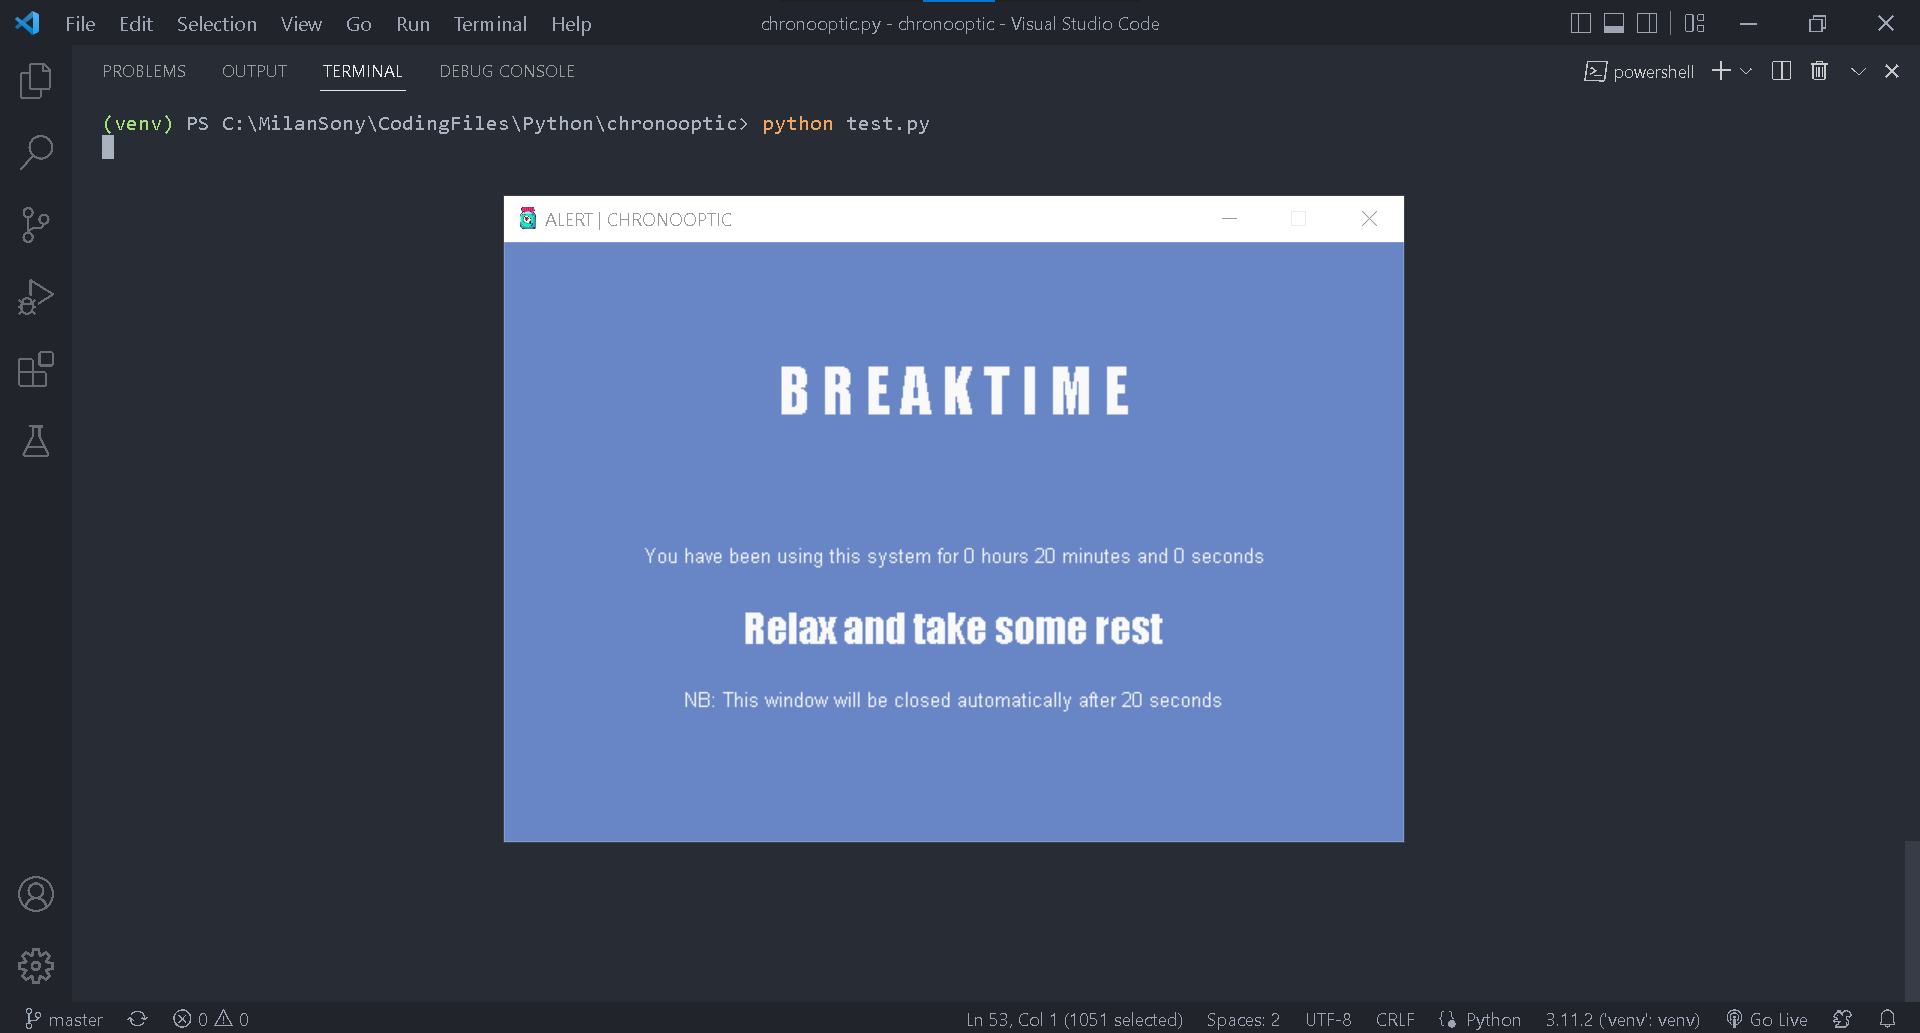
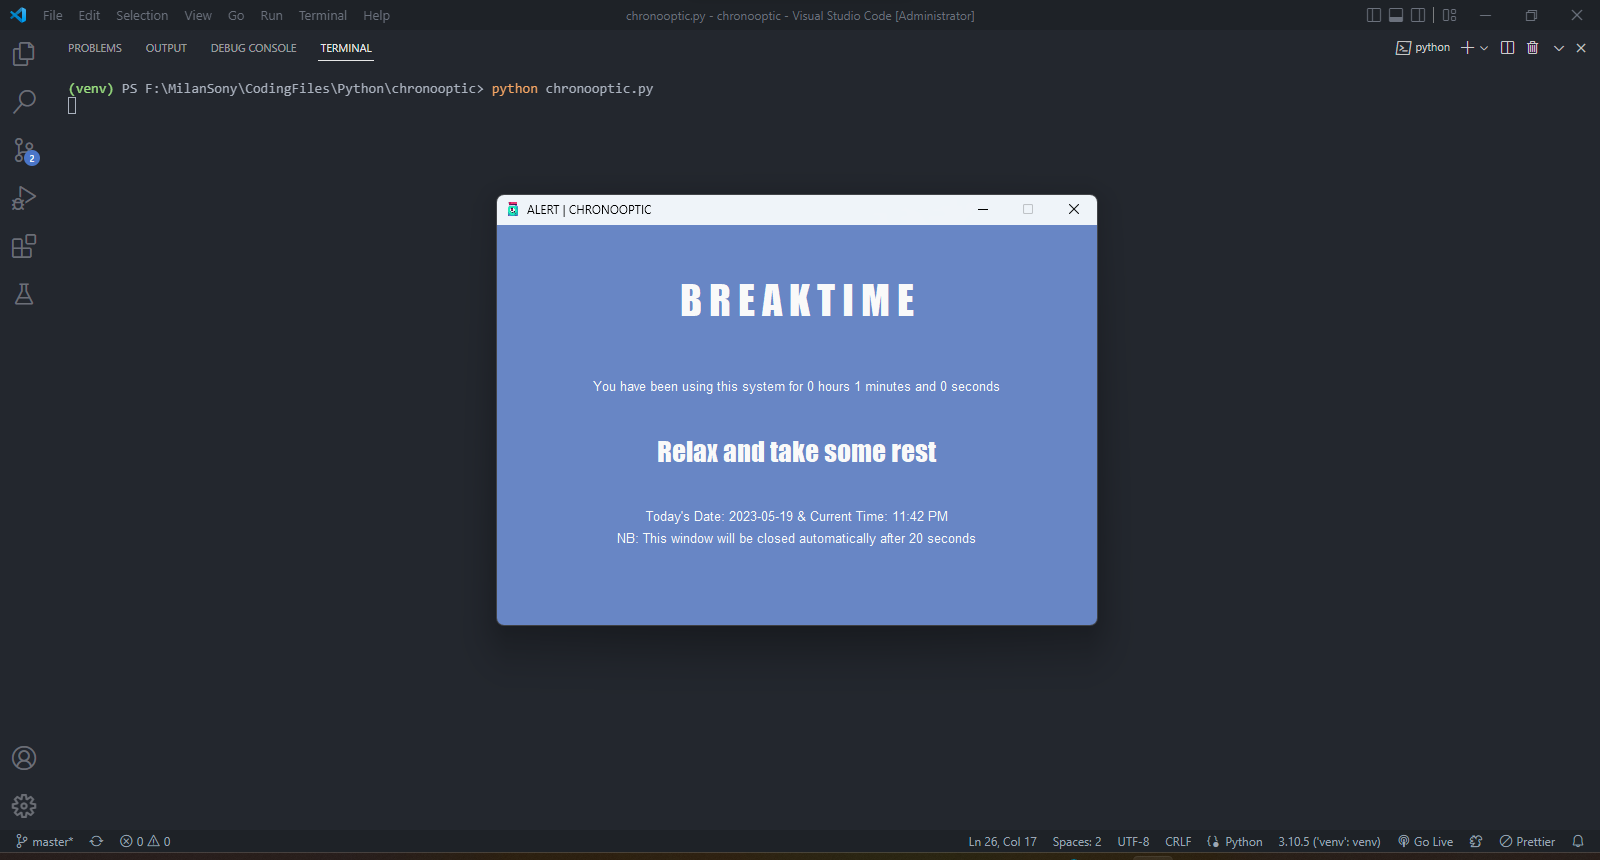
date and time added, screenshot updated, one file deleted

diff --git a/chronooptic.py b/chronooptic.py
@@ -2,6 +2,8 @@ from tkinter import *
 import datetime
 import time
 from playsound import playsound
+from datetime import date
+from time import localtime, strftime
 
 """
 --------------------NOTES--------------------
@@ -26,27 +28,20 @@ rest_time = 20000 # 20 second in millisecond
 start_time = datetime.datetime.now()
 
 def start():
-  # print("started")
-  # print("start time: ", start_time)
   time.sleep(work_time)
   end_time = datetime.datetime.now()
-  # print("end time: ", end_time)
   time_diff = end_time - start_time
-  # print("time difference:", time_diff)
   time_format(time_diff)
 
 def time_format(time_diff):
-  # Define the time as a string
+  # define the time as a string
   time_str = str(time_diff)
-  # Parse the string to a datetime object
+  # parse the string to a datetime object
   time_obj = datetime.datetime.strptime(time_str, '%H:%M:%S.%f')
-  # Extract hours, minutes, seconds, and milliseconds
+  # extract hours, minutes, seconds, and milliseconds
   hours = time_obj.hour
   minutes = time_obj.minute
   seconds = time_obj.second
-  # milliseconds = time_obj.microsecond // 1000
-  # Print the result
-  # print(f"hours: {hours} minutes: {minutes} seconds: {seconds}")
   create_window1(hours, minutes, seconds)
 
 # define the function to create the first window
@@ -68,15 +63,15 @@ def create_window1(hr, min, sec):
     font="Impact 30",
     fg="#F9F9F9",
     bg="#6886C5",
-    height=4
+    height=3
   )
   lb1.pack()
   lb2 = Label(
-    window1, 
+    window1,
     text=f"You have been using this system for {hours} hours {minutes} minutes and {secs} seconds",
     font=("SegoeUI 10"),
     fg="#F9F9F9",
-    bg="#6886C5",
+    bg="#6886C5"
   )
   lb2.pack()
   lb3 = Label(
@@ -85,17 +80,30 @@ def create_window1(hr, min, sec):
     font=("Impact 20"),
     fg="#F9F9F9",
     bg="#6886C5",
-    height=2
+    height=3
   )
   lb3.pack()
+
+  # current date and time
+  current_date = date.today()
+  current_time = strftime("%I:%M %p", localtime())
+
   lb4 = Label(
     window1,
-    text="NB: This window will be closed automatically after 20 seconds",
+    text=f"Today's Date: {current_date} & Current Time: {current_time}",
     font=("SegoeUI 10"),
     fg="#F9F9F9",
-    bg="#6886C5",
+    bg="#6886C5"
   )
   lb4.pack()
+  lb5 = Label(
+    window1,
+    text=f"NB: This window will be closed automatically after 20 seconds",
+    font=("SegoeUI 10"),
+    fg="#F9F9F9",
+    bg="#6886C5"
+  )
+  lb5.pack()
   # start the timer for the next window
   window1.after(rest_time, lambda: next_window(window1, start))
   # redirect to a function if X is clicked
@@ -109,4 +117,6 @@ def next_window(current_window, next_function):
   # start the next window
   next_function()
 
-start()
+# function call
+while True:
+  start()
